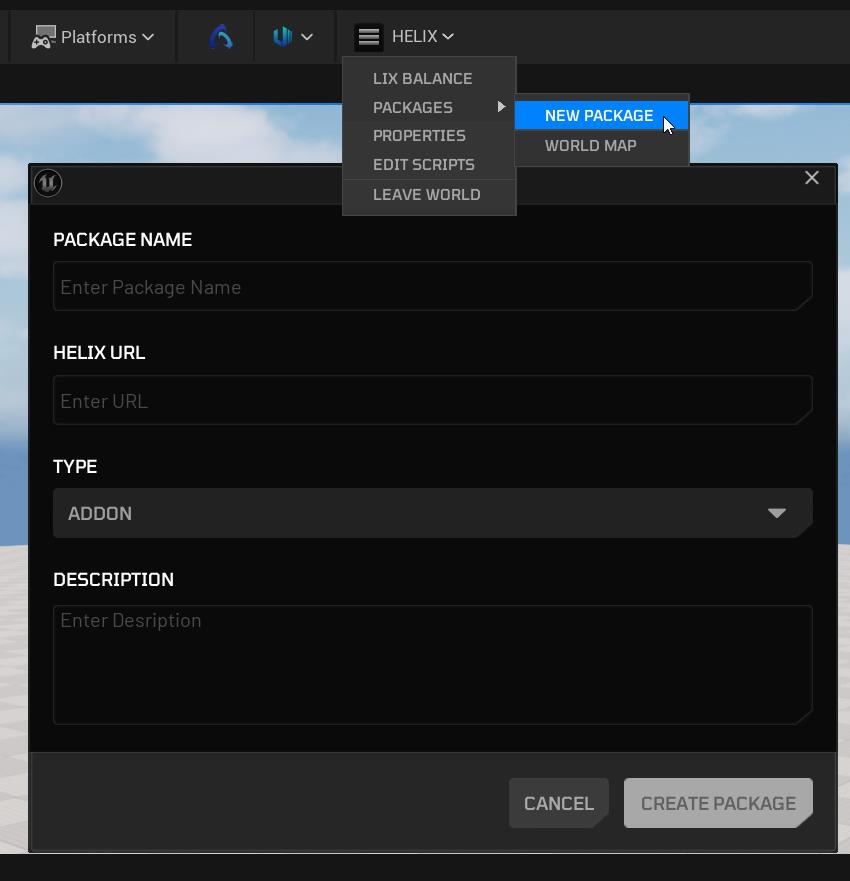
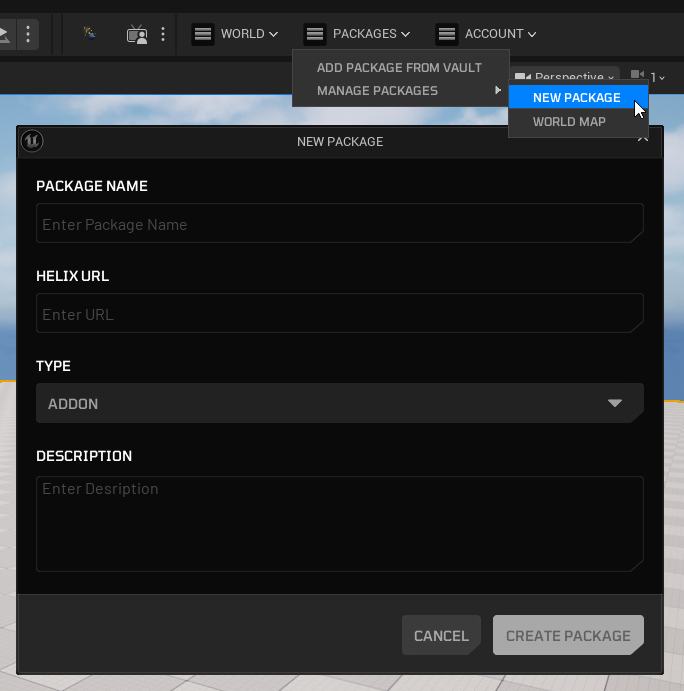
📝 Overhaul HELIX Studio tutorial for Steam + UI refresh
- Replace Launcher instructions with Steam-based setup flow
- Update copy to reflect the latest HELIX Studio UI
- Refresh outdated screenshots (images 2-6, 9, 10)
- Add new screenshots (images 11, 12)
- Improve formatting of warning and note callouts
- Add hyperlinks throughout for accessibility

diff --git a/docs/tutorials/studio.md b/docs/tutorials/studio.md
@@ -4,21 +4,33 @@
 
 **HELIX Studio** is a customized version of Unreal Editor that allows you to create, test, and publish **HELIX Worlds** along with various types of **Packages** for HELIX, such as **Maps**, **Vehicles**, and **Wearables**.
 
->💡 Most information regarding the preparation of individual assets (such as meshes, materials or levels) and interaction with the Engine using Blueprints in Unreal Editor is also applicable to **HELIX Studio**.
+/// info | Note
+Most information regarding the preparation of individual assets (such as meshes, materials or levels) and interaction with the Engine using Blueprints in Unreal Editor is also applicable to **HELIX Studio**.
+///
 
->⚠**HELIX Studio** is in early development. There will be bugs and missing features, but as an early tester, there are opportunities to help shape the platform from the ground up.
+/// warning | Warning
+**HELIX Studio** is in early development. There will be bugs and missing features, but as an early tester, there are opportunities to help shape the platform from the ground up.
+///
+
+****
 
 ## **First Steps**
 
-You can obtain and run a copy of **HELIX Studio** through the **HELIX Launcher**. 
+You can run **HELIX Studio** through the **Steam**. If you have access to **HELIX Game** and you cannot see **HELIX Studio**, ensure you don't have any filters enabled in **Steam Library**, or try to search for "HELIX" or "Studio". 
 
-After initialization, you will see the Project Browser window. Navigate to the **HELIX** section and select one of the project templates. For this tutorial, we will start with the **Blank** template:
+![image.png](StudioImages/image%2011.png)
+
+Launch **HELIX Studio** and wait for initialization to complete. Then you will see the Project Browser window. Navigate to the **HELIX** section and select one of the project templates. For this tutorial, we will start with the **Blank** template:
 
 ![image.png](StudioImages/image.png)
 
-If you are not logged in, you'll be presented with a login screen. You must authenticate with a HELIX account before proceeding with **HELIX Studio**:
+<br>
+
+If you are not logged in, you'll be presented with a login screen. You must authenticate with a **HELIX account** before proceeding with **HELIX Studio**:
 
 ![image.png](StudioImages/image%201.png)
+
+<br>
 
 Upon successful login, the World will be initialized, and a default level for that World will open.
 
@@ -26,67 +38,97 @@ All HELIX-related features can be accessed through the toolbar menu:
 
 ![image.png](StudioImages/image%202.png)
 
->💡 The vast majority of Unreal's standard project settings should be considered immutable. Altering any of these may lead to compatibility issues with the HELIX game client.
+/// warning | Warning
+The vast majority of Unreal's standard project settings should be considered immutable. Altering any of these may lead to compatibility issues with the **HELIX Game** client.
+///
 
-## **Worlds and Packages in** HELIX **Studio**
+****
+
+## **Worlds and Packages in HELIX Studio**
 
 Every project in **HELIX Studio** represents a **HELIX World**, which may contain packages as dependencies. Packages are structured as content plugins.
 
->💡 Your World does not need to be published. You can use it for local testing of your packages. 
+/// info | Note
+Your World does not need to be published. You can use it for local testing of your packages. 
+///
 
 When using a **Blank** template, you should see a single package of type **Map:**
 
 ![image.png](StudioImages/image%203.png)
 
-You can create additional packages by selecting **HELIX** -> **PACKAGES** -> **NEW PACKAGE:**
+<br>
+
+You can create additional packages by selecting **PACKAGES** -> **NEW PACKAGE:**
 
 ![image.png](StudioImages/image%204.png)
 
->💡 The package type is selected upon creation and cannot be changed later.
+/// note | Note
+The package type is selected upon creation and cannot be changed later.
+///
+
+****
 
 ### **Map Packages**
 
-**Map** packages are unique in that only one such package can exist within a World. A **Map p**ackage must contain at least one level asset, which serves as the underlying level for the World.
-****If there are multiple assets, you can select which one to use in the package properties:
-****
+**Map** packages are unique in that only one such package can exist within a World. A **Map** package must contain at least one level asset, which serves as the underlying level for the World.
+
+If there are multiple assets, you can select which one to use in the package properties:
 
 ![image.png](StudioImages/image%205.png)
 
->💡 When changing a level asset or creating a new map package, you must leave and re-open the World to apply those changes.
+****
 
 ### **Other Packages**
 
 **Addon** packages are the most generic type, as they do not assume any specific structure and are not treated in any particular way. You can add various standard assets, such as static and skeletal meshes, textures, materials, and different types of blueprints, and rely on them in your World.
 
->💡 There are also packages with specific semantics, such as **Wearable** and **Vehicle** packages. Separate tutorials will cover these.
+/// info | Note
+There are also packages with specific semantics, such as [**Wearable**](custom_cc_assets.md) and [**Vehicle**](custom_vehicles.md) packages. Separate tutorials will cover these.
+///
+
+****
 
 ### **Worlds**
 
 A **World** does not contain any assets itself. It only references other packages.
 
->💡 This means that no assets from the main project’s content are packaged or published. Use them strictly for local testing.
+/// warning | Warning
+This means that no assets from the main project’s content are packaged or published. Use them strictly for local testing.
+///
 
-Besides basic metadata, the World can also contain scripts (Lua or JS) used to implement gameplay logic while relying on HELIX API and referenced packages:
+Besides basic metadata, the World can also contain scripts (Lua or JS) used to implement gameplay logic while relying on **HELIX API** and referenced packages:
 
 ![image.png](StudioImages/image%206.png)
 
->💡 Please refer to the scripting tutorial for more information on the structure and semantics of the **Scripts** folder.
+/// info | Note
+Please refer to the [**scripting**](Scripting/anim_list.md) tutorial for more information on the structure and semantics of the **Scripts** folder.
+///
+
+****
 
 ### **Dependencies**
 
 A World, as well as each package, can have dependencies on other packages. This includes both third-party packages from the **Vault** and local packages in the same project.
 
-It is implied that the World depends on all local packages present in the project. But you can also add additional dependencies from the Vault:
+It is implied that the World depends on all local packages present in the project. But you can also add additional dependencies from the **Vault**:
 
 ![image.png](StudioImages/image%207.png)
 
-Similarly, packages can have dependencies from the Vault, but they can also depend on one another without forming a circular dependency:
+<br>
+
+Similarly, packages can have dependencies from the **Vault**, but they can also depend on one another without forming a circular dependency:
 
 ![image.png](StudioImages/image%208.png)
 
->💡 Asset visibility is not currently enforced, so you must be careful not to access assets from another package without explicit dependencies.
+/// warning | Warning
+Asset visibility is not currently enforced, so you must be careful not to access assets from another package without explicit dependencies.
+///
 
->💡 There is a known issue where, after adding or removing package dependencies from the Vault, you may need to leave and re-open the World for the changes to take effect.
+/// warning | Warning
+There is a known issue where, after adding or removing package dependencies from the **Vault**, you may need to leave and re-open the World for the changes to take effect.
+///
+
+****
 
 ## **Testing in Editor**
 
@@ -94,16 +136,32 @@ We encourage creators to test their packages and Worlds using the **Play in Edit
 
 ![image.png](StudioImages/image%209.png)
 
+<br>
+
 Testing with a **DS**, along with emulating network latency, provides the closest experience to a real-world packaged game.
 
->💡 Standalone Game mode and running multiple processes for testing in general are not currently supported.
+/// warning | Warning
+Standalone Game mode and running multiple processes for testing in general are not currently supported.
+///
+
+****
 
 ## **Publishing**
 
-You can access Publishing options from the properties dialog of either the World or a package. You can publish to the Vault or create a PAK file locally for testing with the HELIX game client:
+You can access **Publishing** options from the **Properties Menu** of either the World or a package. 
+
+![image.png](StudioImages/image%2012.png)
+
+<br>
+
+You can publish to the **Vault** or create a PAK file locally for testing with the **HELIX Game** client:
 
 ![image.png](StudioImages/image%2010.png)
 
+<br>
+
 By default, not only the current package or World, but also all its dependencies will be selected for publishing. You can intentionally skip some packages by deselecting them.
 
->💡 Adding preview images or a user access list directly from **HELIX Studio** is not yet supported. This should be done through the **Creator Hub** after publishing from **HELIX Studio**.
+/// warning | Warning
+Adding preview images or a user access list directly from **HELIX Studio** is not yet supported. This should be done through the **Creator Hub** after publishing from **HELIX Studio**.
+///
